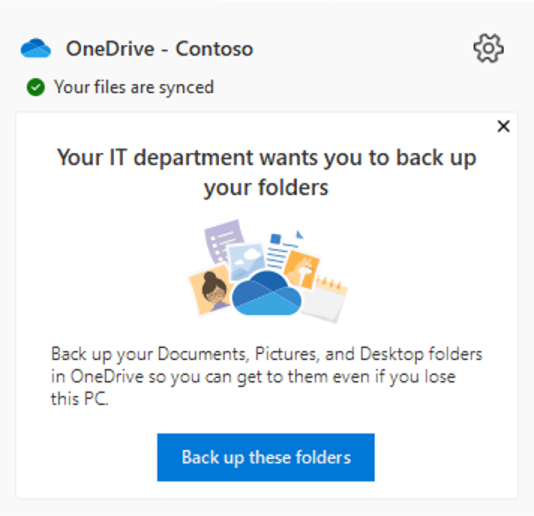
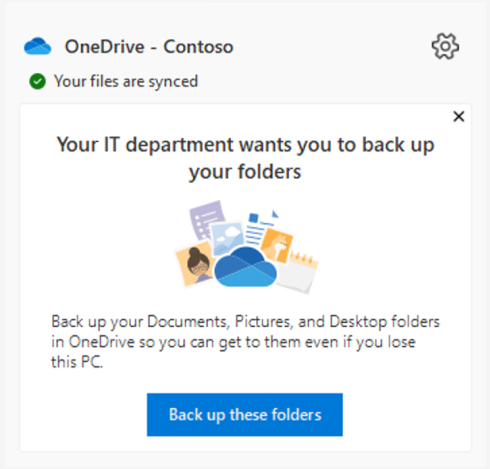
Screenshot resizing

diff --git a/OneDrive/redirect-known-folders.md b/OneDrive/redirect-known-folders.md
@@ -64,7 +64,7 @@ The following policies control the Known Folder Move feature:
 
     Use this setting to give the users a call to action to move their Windows known folders.
 
-    :::image type="content" source="media/kfm-wizard-windows.png" alt-text="Screenshot of the dialog that prompts users to backup their important folders.":::
+    :::image type="content" source="media/kfm-prompt-windows.png" alt-text="Screenshot of the dialog that prompts users to backup their important folders.":::
 
     If users dismiss the prompt, a reminder notification will appear in the activity center until they move all known folders or an error occurs with the move, in which case the reminder notification will be dismissed.
 
@@ -79,7 +79,7 @@ The following policies control the Known Folder Move feature:
 
   You can choose to display a notification to users after their folders have been redirected.
 
-  We also recommend using this setting together with [Prompt users to move Windows known folders to OneDrive.](use-group-policy#prompt-users-to-move-windows-known-folders-to-onedrive). If moving the known folders silently does not succeed, users will be prompted to correct the error and continue.
+  We also recommend using this setting together with [Prompt users to move Windows known folders to OneDrive.](use-group-policy.md#prompt-users-to-move-windows-known-folders-to-onedrive). If moving the known folders silently does not succeed, users will be prompted to correct the error and continue.
 
   > [!IMPORTANT]
   > We recommend deploying the silent policy for existing devices and new devices while limiting the deployment of existing devices to 1,000 devices a day and not exceeding 4,000 devices a week between macOS and Windows.
